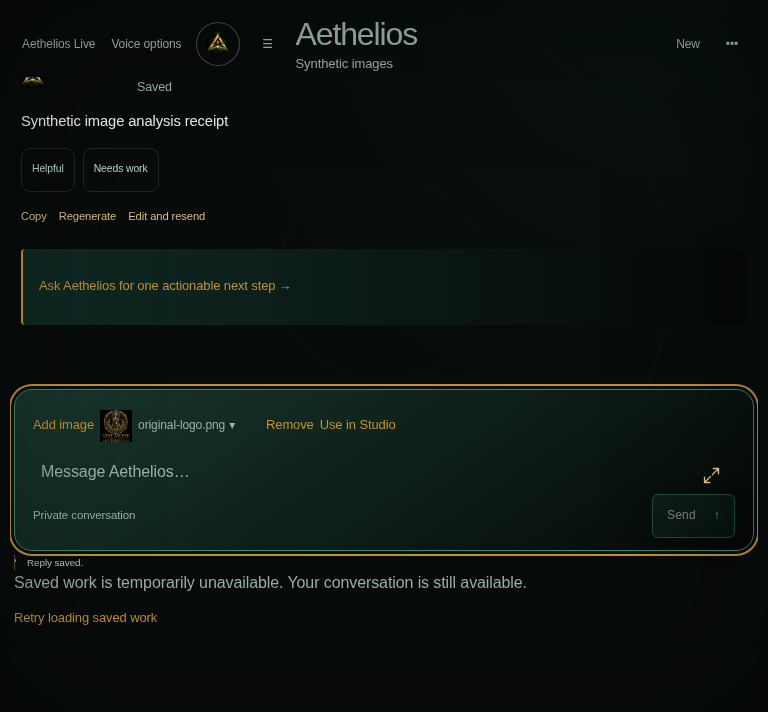
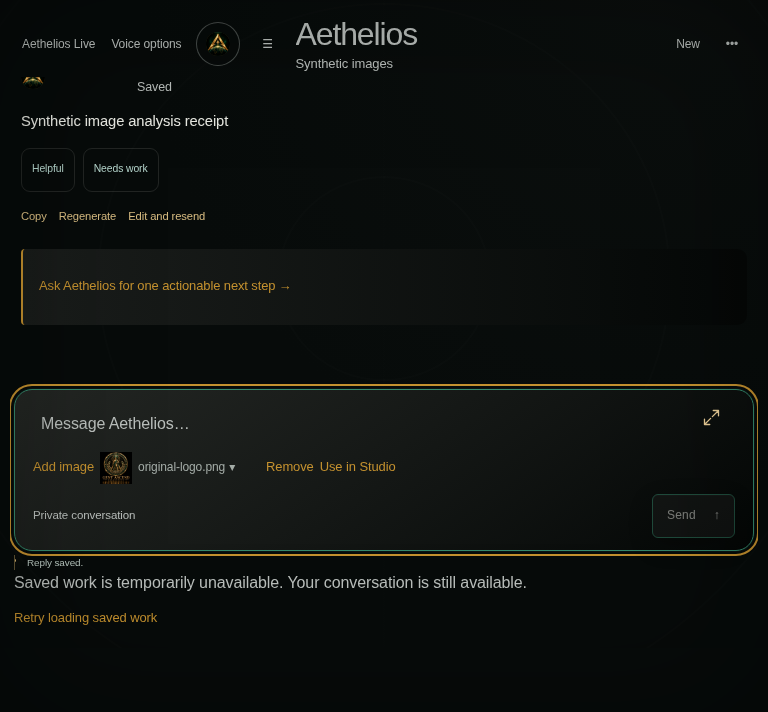
Keep idle Talk image control within the compact composer contract

diff --git a/src/components/aurelius/workspace.tsx b/src/components/aurelius/workspace.tsx
@@ -2293,14 +2293,6 @@ export function AureliusWorkspace({
                   </button>
                 </div>
               )}
-              <TalkImageAttachment
-                key={`${data.ownerId ?? 'anonymous'}:${selected ?? 'new'}:${attachmentEpoch}`}
-                value={attachment}
-                disabled={blocked || preview || !data.canChat || liveBusy}
-                onChange={setAttachment}
-                onRemove={clearAttachment}
-                onBusyChange={setAttachmentBusy}
-              />
               {(() => {
                 const resolved = resolveWorkTarget(
                   creationWorkspace,
@@ -2335,6 +2327,14 @@ export function AureliusWorkspace({
                 }
               />
               <div className="composer-controls">
+                <TalkImageAttachment
+                  key={`${data.ownerId ?? 'anonymous'}:${selected ?? 'new'}:${attachmentEpoch}`}
+                  value={attachment}
+                  disabled={blocked || preview || !data.canChat || liveBusy}
+                  onChange={setAttachment}
+                  onRemove={clearAttachment}
+                  onBusyChange={setAttachmentBusy}
+                />
                 <span className="quiet-label">
                   {includeContext ? 'Personal context on' : 'Private conversation'}
                 </span>

diff --git a/tests/browser/talk-layout.spec.ts b/tests/browser/talk-layout.spec.ts
@@ -60,6 +60,16 @@ for (const width of [320, 360, 390, 412, 768, 1440]) {
     expect(heights.overflow).toBe(false);
     expect(heights.transcript / heights.app).toBeGreaterThan(0.6);
     expect(heights.composer).toBeLessThanOrEqual(112);
+    const addImage = page.getByRole('button', { name: 'Add image', exact: true });
+    const addImageBox = await addImage.boundingBox();
+    expect(addImageBox!.width).toBeGreaterThanOrEqual(44);
+    expect(addImageBox!.height).toBeGreaterThanOrEqual(44);
+    await addImage.click({ trial: true });
+    await test.info().attach('empty-composer-bounds', {
+      body: JSON.stringify({ width, ...heights, addImage: addImageBox }),
+      contentType: 'application/json',
+    });
+    await page.screenshot({ path: `test-results/talk-empty-${width}.png` });
     await page.getByLabel('Message Aethelios', { exact: true }).fill('Keep this company draft');
     await page.getByRole('button', { name: 'Expand writing space', exact: true }).click();
     await page.getByLabel('Expanded message').fill('Keep this company draft and revision');

diff --git a/src/components/aurelius/talk-image-attachment.css b/src/components/aurelius/talk-image-attachment.css
@@ -3,7 +3,7 @@
   display: grid;
   gap: 0.125rem;
   min-width: 0;
-  margin-block: 0.125rem;
+  margin-block: 0;
   color: var(--aether-text);
 }
 .talk-image-actions,
@@ -83,7 +83,12 @@
 .talk-image-status progress {
   width: 3rem;
 }
-.talk-page .aurelius-composer:has(.talk-image-preview) .talk-expand {
-  top: auto;
-  bottom: calc(44px + 0.5rem);
+.talk-page .composer-controls:has(> .talk-image-attachment) {
+  flex-wrap: wrap;
+}
+.talk-page .composer-controls > .talk-image-attachment[data-expanded='true'] {
+  flex-basis: 100%;
+}
+.talk-page .composer-controls:has(> .talk-image-attachment) > .quiet-label {
+  flex: 1;
 }

diff --git a/src/components/aurelius/talk-image-attachment.tsx b/src/components/aurelius/talk-image-attachment.tsx
@@ -115,7 +115,10 @@ export function TalkImageAttachment({
     }
   }
   return (
-    <div className="talk-image-attachment">
+    <div
+      className="talk-image-attachment"
+      data-expanded={Boolean(preview || value || progress || error)}
+    >
       <input
         ref={input}
         type="file"

diff --git a/docs/TALK_IMAGE_STUDIO_HANDOFF.md b/docs/TALK_IMAGE_STUDIO_HANDOFF.md
@@ -1,6 +1,6 @@
 # Talk image attachment and Studio reference handoff
 
-Base: `0c4a59c884dbc133fbe8e9aa153c453f10846e89`. Separate attachment work on `feat/talk-image-studio-reference`; released Live repairs and Cedar are preserved. No shared stylesheet, official asset, SQL/schema, credentials or provider configuration changes.
+Initial base: `0c4a59c884dbc133fbe8e9aa153c453f10846e89`. Current canonical main `6e35741e46fd5ec6e9d8fc94a634e22a99f4bdc5` is integrated, including released charcoal glass. Separate attachment work on `feat/talk-image-studio-reference`; released Live repairs and Cedar are preserved. No shared stylesheet, official asset, SQL/schema, credentials or provider configuration changes.
 
 The visible **Add image** control beside the Talk composer reuses the existing signed Storage upload and completion flow. PNG, JPEG and WebP from 100 bytes through 10 MiB are supported; videos and general files are not. It shows an original-image preview, staged indeterminate progress, errors, retry and Remove. Remove detaches the image locally without deleting an asset. Retry first verifies the same object and reference after an uncertain response, avoiding another transfer when completion already succeeded. File replacement, removal, conversation changes and account changes fence late results. The file is sent unchanged, without re-encoding or overwriting storage.
 
@@ -27,3 +27,15 @@ The attachment row uses a 32px original preview, ellipsized filename, always-vis
 New phone/Fold interaction checks use 390×460 and 768×420 reduced viewports after focusing the input. They require at least 96px of transcript, a composer below 280px, a visible saved reply, and unobstructed pointer hit targets for input, Send, Remove and Use in Studio. They open and close details, then exercise Send, handoff and Remove with actual pointer clicks. Normal viewport checks require at least 180px of transcript. [Phone keyboard screenshot](evidence/talk-image-studio-handoff/talk-image-keyboard-390.png) and [Fold keyboard screenshot](evidence/talk-image-studio-handoff/talk-image-keyboard-768.png) are native Chromium renders with synthetic records, not hardware acceptance.
 
 Final review checks: lint, strict types, application production build, 19 focused unit tests and all nine browser cases passed. Full units: 1,355 passed, one skipped and five failures, matching the five failures reproduced on untouched base (Studio export paths and Architect host/Docker environment). The existing Mirror prebuild DNS blocker remains; the separate application build passed. No merge, deployment or ready-for-review transition.
+
+## Empty composer contract correction and canonical integration
+
+Canonical main `6e35741` merged cleanly into this branch at `d8638a138cc2fe8b43fefc6007b2b9e074c53a56`. Add image now shares the existing composer control row with privacy status and Send, rather than adding a row above the editor when empty. The same mounted component expands to a full row only for an image, upload progress or an error, retaining ticket/race state throughout. The editor expand control uses its original position over the editor. No shared material tokens/styles, source-selection/ownership rules, image bytes or voice code changed.
+
+The original empty-composer limit remains **112px**. All six original cases pass at 320, 360, 390, 412, 768 and 1440px, with additional 44px Add image target and pointer-actionability assertions. The tests also attach content-free geometry and capture native empty screenshots. The aggregate run passed **86 browser tests** across Talk layout, attachment, recovery, streaming, consent, voice, luminous layout and intelligence motion; the six final capture cases passed again. All 19 focused units, lint, strict types, optimized application build and migration ledger pass. Full units: 1,355 passed, one skipped, five environment failures. The same five reproduce on untouched canonical main `6e35741`. Standard build again stops in the unchanged Mirror prebuild DNS failure; separate application build passes. See updated validation receipts and the `talk-empty-*`/refreshed attachment screenshots in the evidence folder.
+
+### Origin investigation remains open
+
[1 lines of base64/hex data omitted]
+
+The connected GitHub artifact action retrieves [artifact 12007275777](https://github.com/neilaureliuscollective/gent-ascend-collective-app/actions/runs/38806609004/artifacts/12007275777), but this environment rejects transfer from the returned file-download host with HTTP 403, including with an explicit network grant. No trace content has been inspected and no Origin code or timeout has been changed. The exact recovery cause remains unverified until the trace/network events or a reachable ZIP are available. No credential changes or speculative recovery patch were made.

diff --git a/docs/STATUS.md b/docs/STATUS.md
@@ -1343,3 +1343,5 @@ Current-main source verified against tree `6f78d395807819ec99ae7308f51d07630b0ea
 > Talk image attachment and Studio reference handoff (2026-10-15): visible Add image supports PNG/JPEG/WebP through 10 MiB with preview, staged progress, remove and uncertain-completion retry. Explicit Use in Studio preserves the original owned reference and durably selects it in existing project brief JSON, with server ownership/object checks and stale-result guards. Analysis, reference guidance, original brand-kit logo placement and inline generation remain distinct; inline Talk generation still uses no reference. No shared CSS, SQL, paid calls, hosted changes, asset deletion, merge or deployment. Checks, screenshots and limitations: [TALK_IMAGE_STUDIO_HANDOFF.md](TALK_IMAGE_STUDIO_HANDOFF.md).
 
 > PR #152 source/mobile corrections (2026-10-15): Studio has one mutually exclusive preview/request source; explicit reference handoff > saved-version URL > persisted reference, and server input rejects both IDs together. Talk attachment controls are compact, details bounded, and editor expansion no longer covers handoff. Nine browser cases include actual pointer access, visible saved replies and at least 96px transcript at phone/Fold keyboard heights. Lint/types/application build and 19 focused tests pass; full units 1,355 passed with five baseline environment failures. Updated native fixture screenshots and limits: [TALK_IMAGE_STUDIO_HANDOFF.md](TALK_IMAGE_STUDIO_HANDOFF.md). No shared CSS/charcoal, voice, SQL, paid calls, asset deletion, merge or deployment changes.
+
+> PR #152 empty-composer CI correction (2026-10-15): integrated canonical main `6e35741` and its released charcoal glass. Add image shares the existing privacy/Send row while idle, expanding only for image/progress/error. The unchanged <=112px empty-composer contract and new 44px target checks pass at all six 320–1440px widths; 86 aggregate browser cases and six capture reruns pass. Lint/types/application build, ledger and 19 focused units pass; five full-unit environment failures reproduce on canonical main. Origin recovery remains unresolved: CI logs were read, but artifact-file transfer returns HTTP403, so no trace-based cause, Origin code change or timeout change is claimed. Evidence: [TALK_IMAGE_STUDIO_HANDOFF.md](TALK_IMAGE_STUDIO_HANDOFF.md). No PR merge, deploy, hosted SQL, paid generation or credential changes.
